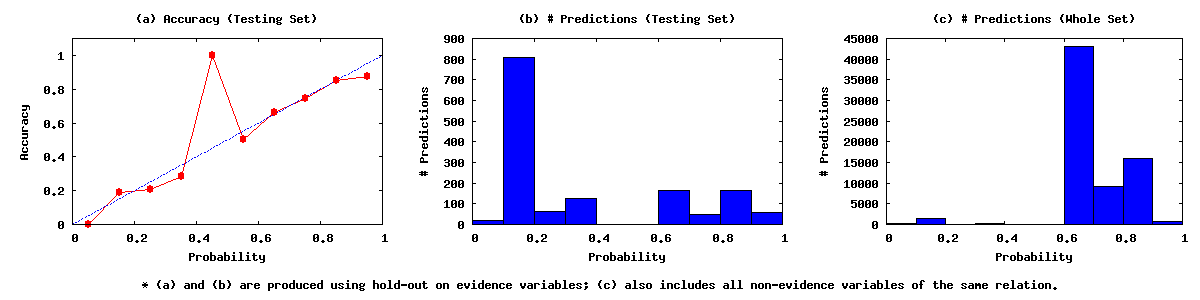
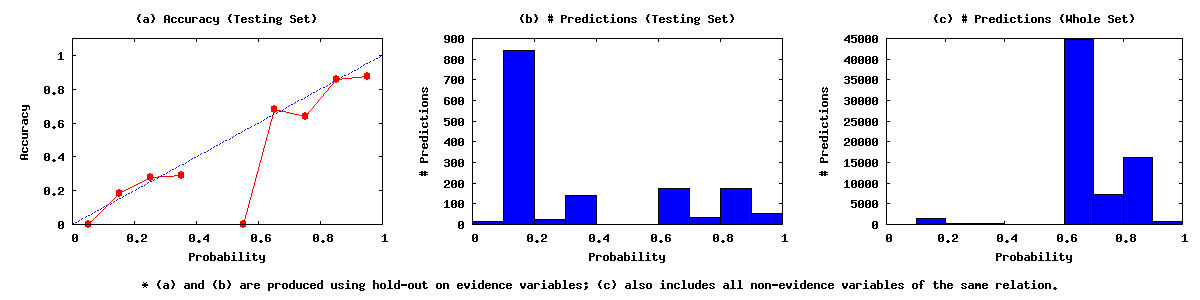
Slightly changed results with longer sampling

diff --git a/doc/walkthrough-improve.md b/doc/walkthrough-improve.md
@@ -52,10 +52,10 @@ ext_has_spouse_features {
     SELECT  sentences.words,
             lemma,                   # Add this line
             has_spouse.relation_id,
-            p1.start_position  AS  "p1.start_position",
-            p1.length          AS  "p1.length",
-            p2.start_position  AS  "p2.start_position",
-            p2.length          AS  "p2.length"
+            p1.start_position  AS  p1_start,
+            p1.length          AS  p1_length,
+            p2.start_position  AS  p2_start,
+            p2.length          AS  p2_length
             """
     # ...
   }
@@ -202,11 +202,11 @@ psql -d deepdive_spouse -c "
 
                      description                  |      weight
     ----------------------------------------------+------------------
-     f_has_spouse_features-important_word=wife    | 3.15606795129873
-     f_has_spouse_features-important_word=widow   |  2.5437455991906
-     f_has_spouse_features-important_word=marry   | 1.94056303781197
-     f_has_spouse_features-few_words_between      | 1.62204261123308
-     f_has_spouse_features-important_word=fiancee | 1.53406825466027
+     f_has_spouse_features-important_word=wife    | 3.12437525600187
+     f_has_spouse_features-important_word=widow   | 2.45652823047255
+     f_has_spouse_features-important_word=marry   | 1.85742049055667
+     f_has_spouse_features-few_words_between      |  1.6015835203787
+     f_has_spouse_features-important_word=fiancee |  1.0439453467637
     (5 rows)
 
 Type in following command to select top negative features:
@@ -222,11 +222,11 @@ psql -d deepdive_spouse -c "
 
                        description                   |       weight
     -------------------------------------------------+--------------------
-     f_has_spouse_features-important_word=son        |  -3.59259198110491
-     f_has_spouse_features-important_word=father     |  -3.48791602624587
-     f_has_spouse_features-important_word=brother    |  -2.35151767597167
-     f_has_spouse_features-potential_last_name_match |  -2.31560107817806
-     f_has_spouse_features-important_word=sister     | -0.845486090679023
+     f_has_spouse_features-important_word=son        |  -2.83397621968201
+     f_has_spouse_features-important_word=father     |  -2.76048309192415
+     f_has_spouse_features-potential_last_name_match |  -2.34700944702606
+     f_has_spouse_features-important_word=brother    |  -2.23063906981248
+     f_has_spouse_features-important_word=sister     | -0.523695847147546
     (5 rows)
 
 We can see that the results have been improved quite a bit, but there are still some errors. 
